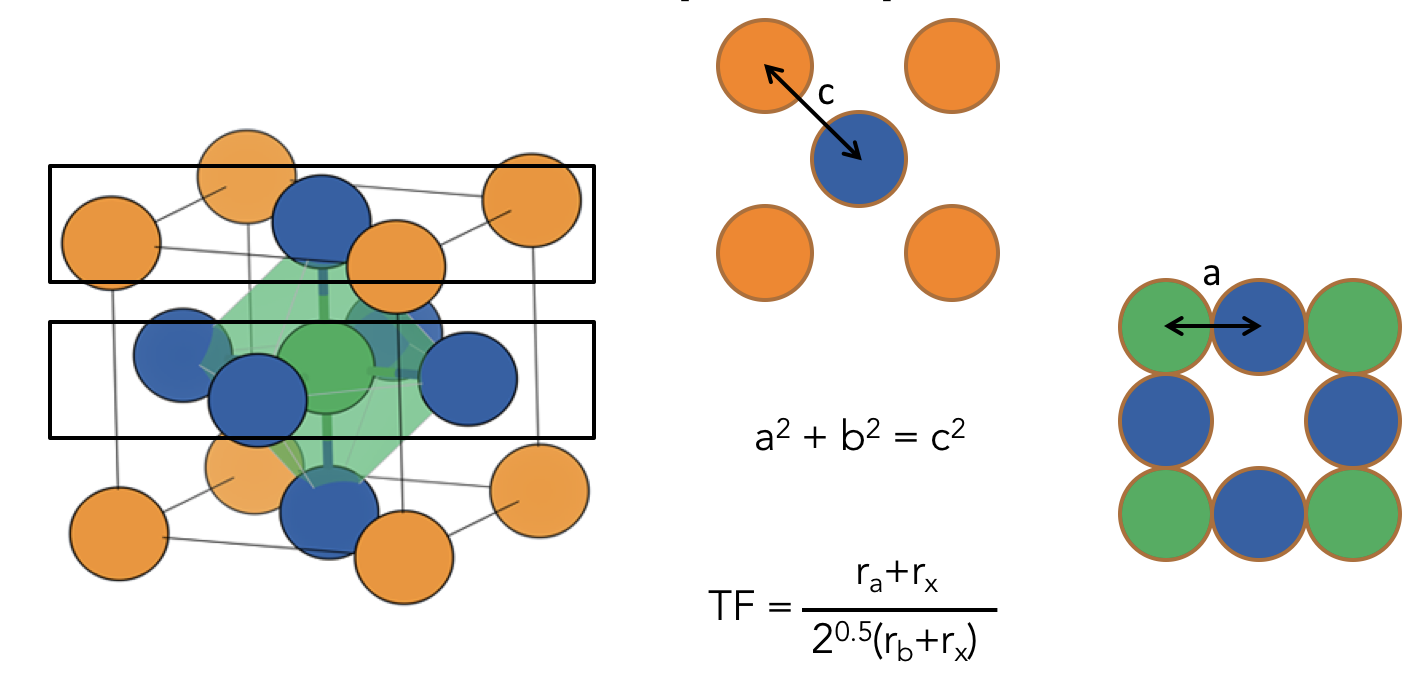
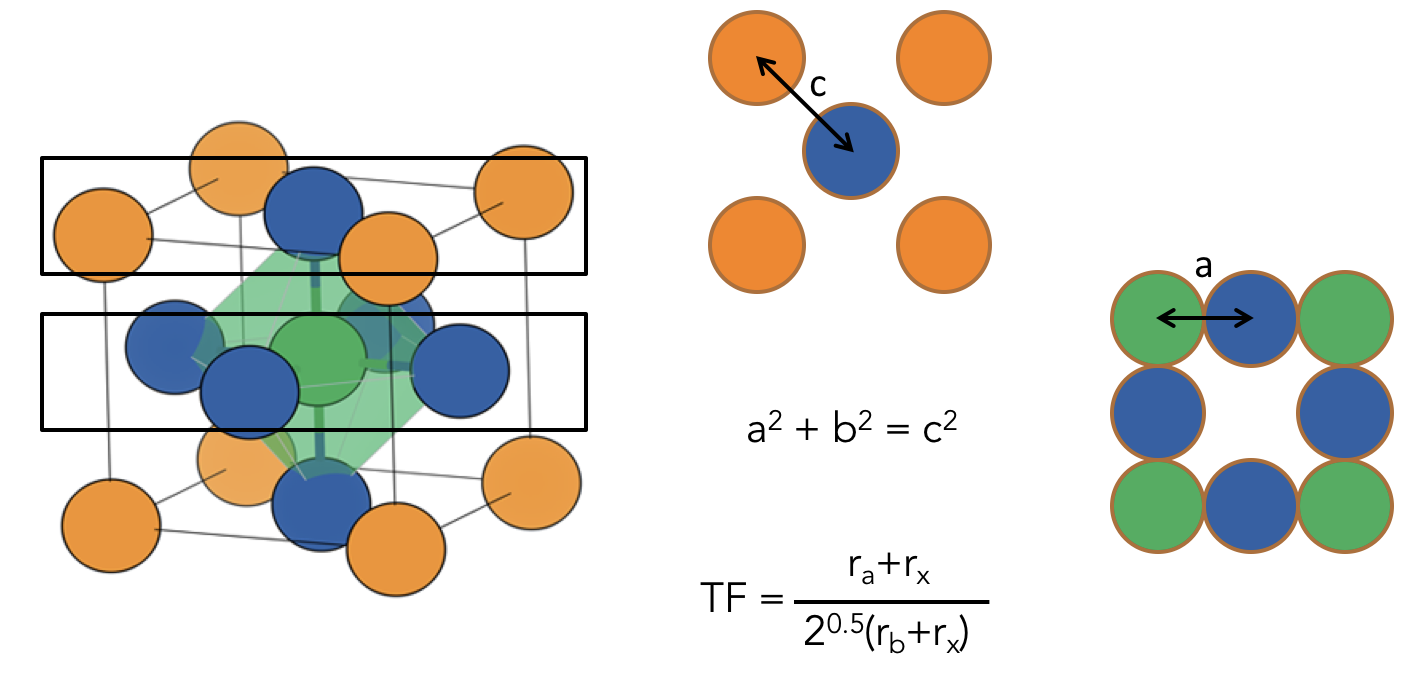
Image width

diff --git a/_posts/2018-01-28-HowStrong.md b/_posts/2018-01-28-HowStrong.md
@@ -12,7 +12,7 @@ A lot of the work that I have been doing in recent years concerns hybrid materia
 Perovskites are a good place to start as they are almost the archetype of classic design principles in inorganic solid state chemistry. The rules of Goldschmidt are amongst the most celebrated composition structure relationships, that is a way to relate the elements in a chemical formula to the 3D arrangement of the atoms in a solid. Goldschmidt built a beautifully simple geometric representation of the perovskite lattice and essentially represented the problem as one of packing spheres of different sizes (various elements). See the Figure below.
 
 <figure>
-	<img src="{{ '/assets/images/goldschmidt.png' | prepend: site.baseurl }}" alt=""> 
+	<img src="{{ '/assets/images/goldschmidt.png' | prepend: site.baseurl }}" alt="" width="500"> 
 	<figcaption>Fig1. The Goldschmidt tolerance factor.</figcaption>
 </figure>
 
